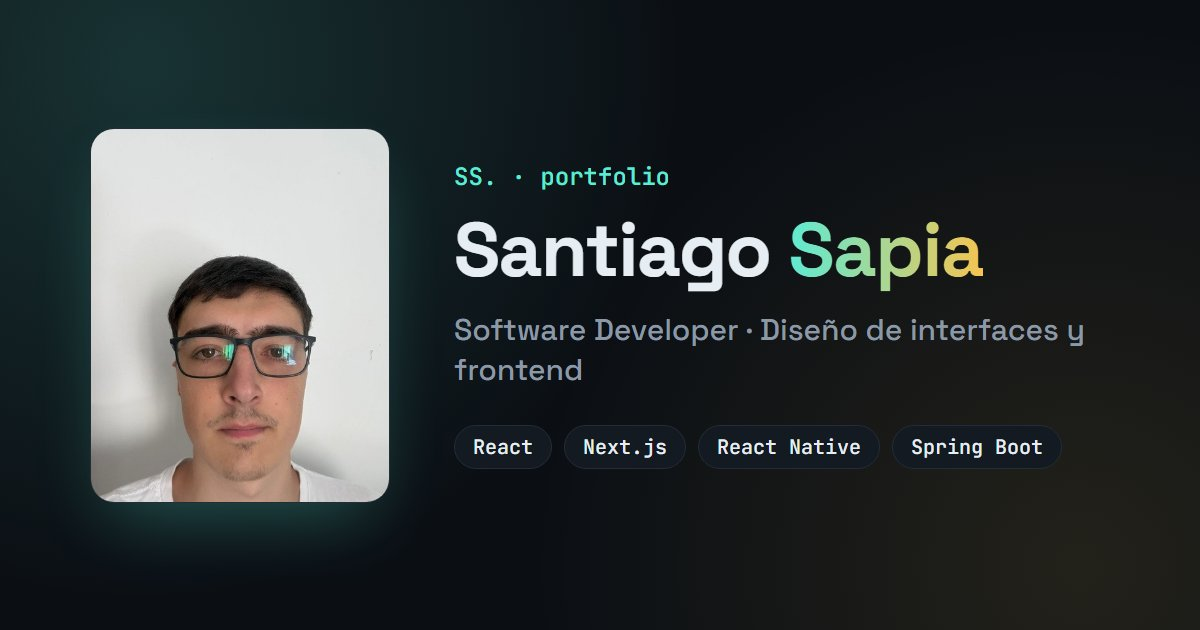
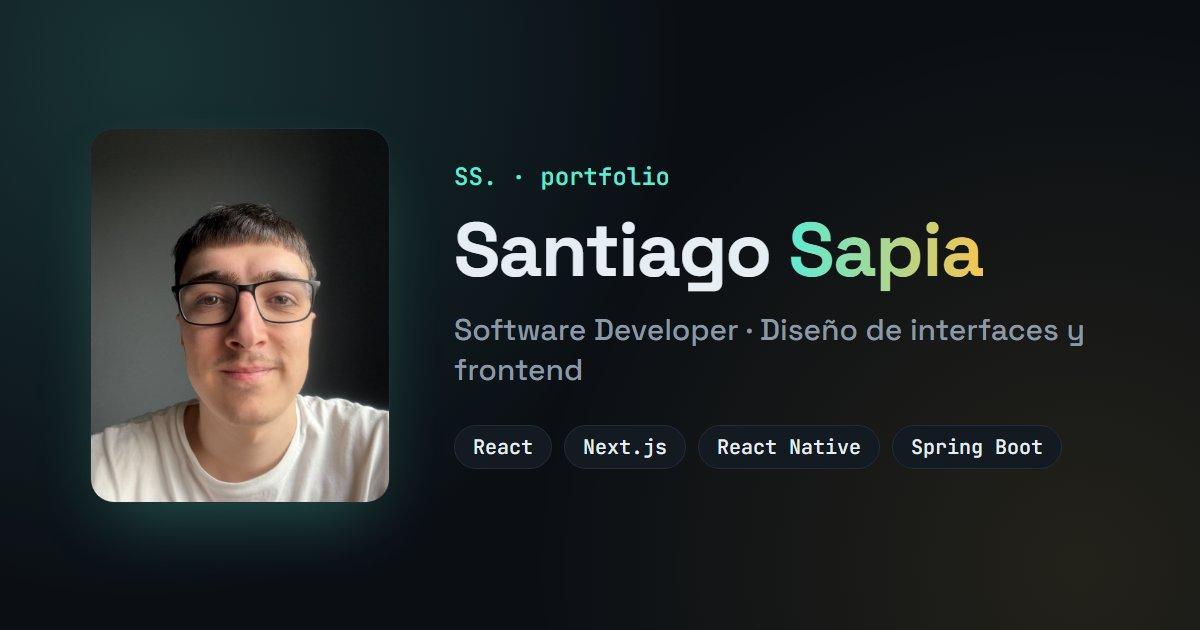
Foto nueva y link al repositorio de Benedetto

Changed region(s): [[0.0617, 0.181, 0.3392, 0.8143]]

diff --git a/index.html b/index.html
@@ -121,7 +121,7 @@
     </div>
     <div class="hero-photo">
       <div class="photo-frame">
-        <img src="assets/photo.jpg" alt="Santiago Sapia" width="480" height="600">
+        <img src="assets/photo.jpg" alt="Santiago Sapia" width="800" height="1000">
       </div>
       <div class="photo-tag">&lt;/&gt; <span data-i18n="hero.tag">en progreso</span></div>
     </div>
@@ -309,6 +309,7 @@
           <span>React</span><span>Vercel</span>
         </div>
         <div class="project-links">
+          <a href="https://github.com/santisapiaa/BenedettoPeluqueria" target="_blank" rel="noopener" data-i18n="projects.repo">Repositorio →</a>
           <a href="https://benedetto-peluqueria-mu.vercel.app/" target="_blank" rel="noopener" data-i18n="projects.site">Ver sitio en vivo →</a>
         </div>
       </div>

diff --git a/README.md b/README.md
@@ -13,7 +13,7 @@ Acá están mis proyectos, skills, experiencia y datos de contacto.
 | [HayEquipo](https://hayequipo-app.vercel.app/) | Gestión de planteles deportivos para clubes | React, TypeScript, Supabase, Tailwind |
 | [OrientAI](https://orient-ai-phi.vercel.app/) | Orientación vocacional para estudiantes secundarios | Next.js, Framer Motion, Supabase |
 | [Dentar Devoto](https://dentar-devoto-front.vercel.app/) | Sitio de un consultorio odontológico | React |
-| [Benedetto Peluquería](https://benedetto-peluqueria-mu.vercel.app/) | Sitio de una peluquería y barbería | React |
+| [Benedetto Peluquería](https://benedetto-peluqueria-mu.vercel.app/) ([repo](https://github.com/santisapiaa/BenedettoPeluqueria)) | Sitio de una peluquería y barbería | React |
 
 ## Sobre el sitio
 
